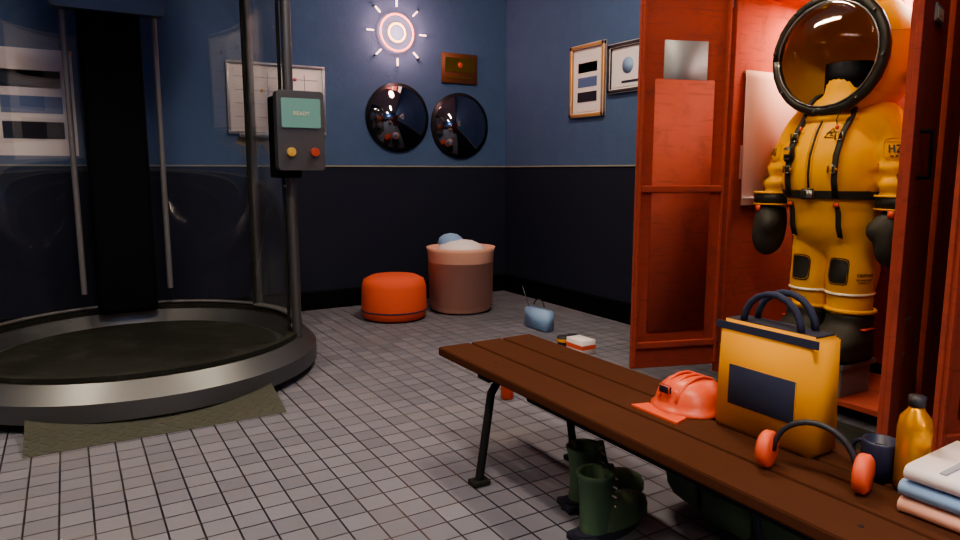
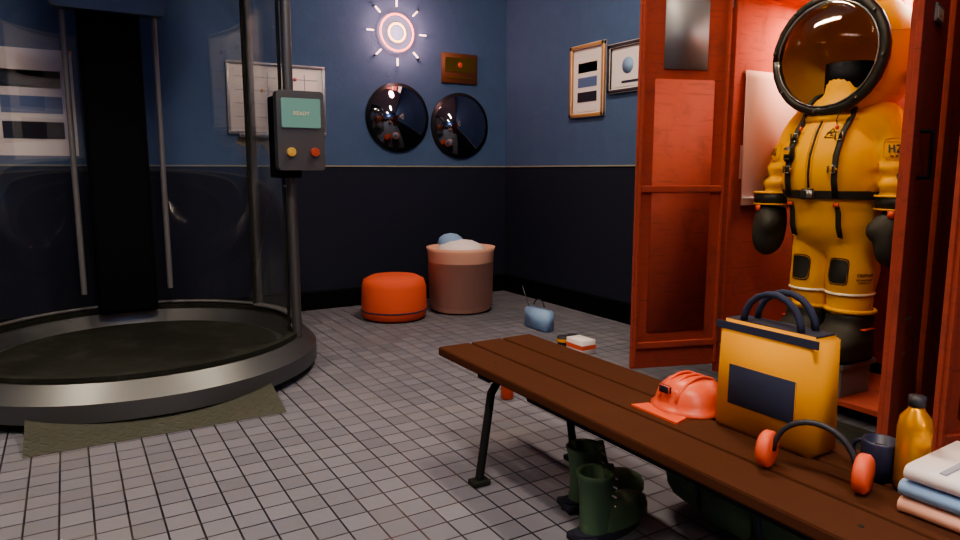
Offset the door mirrors from the panels; refresh optimiser evidence to the 90+ run (Codex P2s, PR 71)
Claude-Session: https://claude.ai/code/session_017ZYc5YVsgaxmMpnAsLGzAo

Changed region(s): [[0.6875, 0.0, 0.75, 0.1481]]

diff --git a/sections/spawn-room/blender/pass_90plus.py b/sections/spawn-room/blender/pass_90plus.py
@@ -12,7 +12,7 @@ Idempotent: every step removes by name or sets absolute values.
      CONFIDENCE") are removed and the board is scaled down; the duplicate hall notice board by the spawn doors is removed.
   3. Locker doors: the open doors keep their 108 degree angle (the suits stay visible) but their inside faces were blank
      red slabs filling the foreground of LockerDoor/LockerReverse. Each of the eight leaves gets a raised, bevelled stiffener
-     panel; the four left-hand leaves also get a polished plate (mirror) in the upper third. Parented to the leaf, so they
+     panel; the four left-hand leaves also get a polished plate (mirror) above the panel. Parented to the leaf, so they
      follow it. Door sizes are unchanged.
   4. Hall lighting: the three ceiling tubes get graded power (bright at the spawn end, dim in the middle, mid at the
      airlock end) so the hall has falloff instead of an even wash. They stay baked emissive fixtures; light budget unchanged.
@@ -95,7 +95,9 @@ for lk in (1, 2, 3, 4):
         base = "DOORIN_%02d_%s" % (lk, side)
         box(base + "_panel", door, (sx * 0.25, 0.0165, 0.95), (0.33, 0.013, 1.30), "V_locker_steel", 0.004)
         if side == "L":
-            box(base + "_mirror", door, (sx * 0.25, 0.0145, 1.62), (0.24, 0.009, 0.34), "steel", 0.002)
+            # wholly above the panel (panel top at local z 1.60) and clear of the leaf face (local y 0.010), so it shares no
+            # surface with either
+            box(base + "_mirror", door, (sx * 0.25, 0.0155, 1.82), (0.24, 0.009, 0.34), "steel", 0.002)
 
 # ---------------------------------------------------------------- 4. hall lighting
 for name, watts in (("HALL_light_00_area", 150.0), ("HALL_light_01_area", 70.0), ("HALL_light_02_area", 105.0)):

diff --git a/sections/spawn-room/production/optimise/README.md b/sections/spawn-room/production/optimise/README.md
@@ -1,8 +1,8 @@
 # Spawn room delivery optimisation (look-preserving derivative)
 
-> **Current as of the HZ-01 locker suit (2026-10-01):** this derivative was regenerated from the linked module with the HZ-01 locker LOD
+> **Current as of the 90+ pass on the HZ-01 locker suit (2026-10-02):** this derivative was regenerated from the linked module with the HZ-01 locker LOD
 > (see [Hero suit LOD](#hero-suit-lod-hz-01) below and [the reference suit handoff](../hero-suit-reference/README.md)); the contact,
-> signature and six-camera render checks below were re-run on it.
+> signature and seven-camera render checks below were re-run on it after the 90+ pass.
 
 `module_optimised.blend` (next to `module.blend` in `sections/facility-assembly/sources/spawn-room/`) is a **separate
 delivery derivative**. The approved `module.blend`, `accepted.blend`, the assembled map and `SOURCES.json` are not touched.
@@ -71,22 +71,23 @@ Every number below (objects, joins, conversions, draw calls, materials) comes fr
   lost the keyframes of
   `POD_state_READY` (an animated text object converted to a mesh); Codex's review of #60 caught this class of bug and the
   comparison now fails on it, and also fails if the derivative gains an action, driver or NLA entry the original did not have.
-- `validate_contacts.py` on the derivative: PASS (208 tagged objects, 0 failures) on the post-polish module, same as the original (the count was 224 before the suit pass removed the belongings and added the hooks, docks and strip lights). (An earlier
-  version of this script merged support targets and failed 48 of them; targets are now kept by name.)
-- Render comparison (Cycles, 48 samples, denoised, fixed seed, 960x540) on six fixed validation cameras, original vs
-  derivative; `renders/<camera>.png` shows before | after | difference amplified 6x:
+- `validate_contacts.py` on the derivative: PASS (197 tagged objects, 0 failures) on the 90+ module, same as the canonical module. (The count was 224 before the suit pass removed the belongings and added the hooks, docks and strip lights, 208 after the polish pass, and 197 after the 90+ pass removed seven plants and the duplicate notice board with their contacts.) An earlier version of this script merged support targets and failed 48 of them; targets are now kept by name. Output for the 90+ module: `../final-pass/contact_validation_90plus.json`.
+- Render comparison (Cycles, 48 samples, denoised, fixed seed, 960x540) on seven fixed validation cameras, original vs
+  derivative, both rendered on the 90+ module; `renders/<camera>.png` shows before | after | difference amplified 6x:
 
   | Camera | mean abs diff | 99th percentile | pixels differing by more than 8% |
   |---|---:|---:|---:|
-  | VALIDATE_Spawn | 0.0067 | 0.047 | 0.192% |
-  | VALIDATE_LockerDoor | 0.0070 | 0.043 | 0.132% |
-  | VALIDATE_BriefingDoor | 0.0086 | 0.051 | 0.291% |
-  | VALIDATE_ExitReverse | 0.0060 | 0.039 | 0.103% |
-  | VALIDATE_Hero_A | 0.0065 | 0.043 | 0.150% |
-  | VALIDATE_Material_A | 0.0080 | 0.047 | 0.177% |
+  | VALIDATE_Spawn | 0.0065 | 0.043 | 0.174% |
+  | VALIDATE_LockerDoor | 0.0074 | 0.043 | 0.138% |
+  | VALIDATE_LockerReverse | 0.0079 | 0.051 | 0.292% |
+  | VALIDATE_BriefingDoor | 0.0086 | 0.051 | 0.303% |
+  | VALIDATE_ExitReverse | 0.0054 | 0.035 | 0.066% |
+  | VALIDATE_Hero_A | 0.0065 | 0.043 | 0.139% |
+  | VALIDATE_Material_A | 0.0081 | 0.047 | 0.181% |
 
-  The differences sit on edges (anti-aliasing and denoiser noise from a different object order); there are no
-  colour or pattern shifts. Rendered again on the post-polish module (wear layer, doorway spill, reframed Material_A) and its regenerated derivative; I looked at the Hero_A montage (the linked suit, neck collar, dock and strip light match, differences on edges only); the other five were checked by the numbers only. This is a Cycles comparison, not engine rendering, and not art approval.
+  The differences sit on edges (anti-aliasing and denoiser noise from a different object order); I found no
+  colour or pattern shifts in the views I looked at (the canonical renders of Spawn, LockerDoor, LockerReverse, ExitReverse and Hero_A in `../final-pass/renders_90plus/`); BriefingDoor and Material_A were checked by the numbers only. This is a Cycles comparison of the Blender scenes, not an engine measurement.
+- Signature comparison canonical vs derivative on the 90+ module: PASS, worst relative area difference 1.98e-05 over 224 materials.
 
 ## Not done / not claimed
 

diff --git a/sections/spawn-room/production/final-pass/REPORT.md b/sections/spawn-room/production/final-pass/REPORT.md
@@ -65,7 +65,7 @@ Reaching 90 needs owner-level decisions (suit style and fabric detail, plants, s
 `../../blender/pass_90plus.py` (idempotent, run after `polish_spawn.py`) applied to the canonical module. I chose the defaults below; each is a one-line change in the script if the owner wants it differently.
 - **Plants:** seven of the nine low-poly plants are removed (hall ficus, snake plant and pothos; locker-room ficus, snake plant and two pothos). The briefing ficus and the briefing sideboard pothos stay, so the briefing room keeps its one planted corner.
 - **Signage:** the two slogan notices on the hall shift board ("SAME TEAM A BRIGHTER TOMORROW", "SAFETY BUILDS CONFIDENCE") are removed; the board keeps "DAILY CHECKS" and "SHIFT ROTA" and is scaled from 1.30 x 1.10 to 0.90 x 0.78. The duplicate hall notice board by the spawn doors (the `HALL_notice` root and its whole tree) and the "changed shift" paper are removed. Wayfinding plates, posters and the briefing board are unchanged.
-- **Locker doors:** the door sizes and the 108 degree open angle are unchanged. I tried 160, 85 and 60 degrees for the outer doors and 25 degrees for the inner doors; none was kept. A door open near 90 degrees faces a camera looking down the room axis, so folding it back left it face-on, and ajar inner doors hid the suits. What the critics called flat slabs were the blank inside faces of the open leaves, so each of the eight leaves now has a raised, bevelled stiffener panel (`DOORIN_*_panel`) and the four left-hand leaves a polished plate (`DOORIN_*_mirror`) in the upper third.
+- **Locker doors:** the door sizes and the 108 degree open angle are unchanged. I tried 160, 85 and 60 degrees for the outer doors and 25 degrees for the inner doors; none was kept. A door open near 90 degrees faces a camera looking down the room axis, so folding it back left it face-on, and ajar inner doors hid the suits. What the critics called flat slabs were the blank inside faces of the open leaves, so each of the eight leaves now has a raised, bevelled stiffener panel (`DOORIN_*_panel`) and the four left-hand leaves a polished plate (`DOORIN_*_mirror`) above the panel, clear of it and of the leaf face.
 - **Hall lighting:** the three ceiling tubes (`HALL_light_0n_area`) change from 135 W each to 150 W (spawn end), 70 W (middle) and 105 W (airlock end), so the hall has falloff instead of an even wash. They stay baked emissive fixtures; the light count (20), dynamic lights (4) and shadow casters (2) are unchanged.
 
 Checks that ran on this pass:
